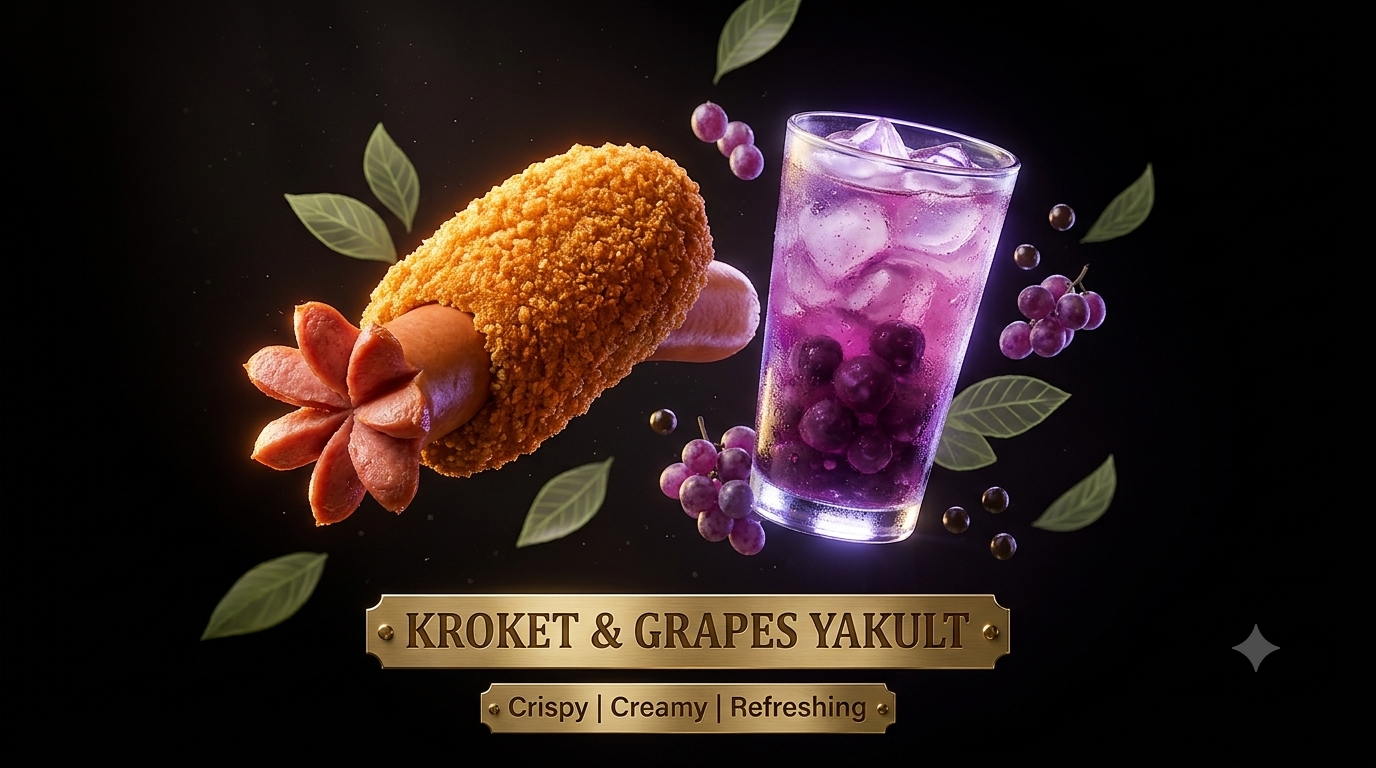
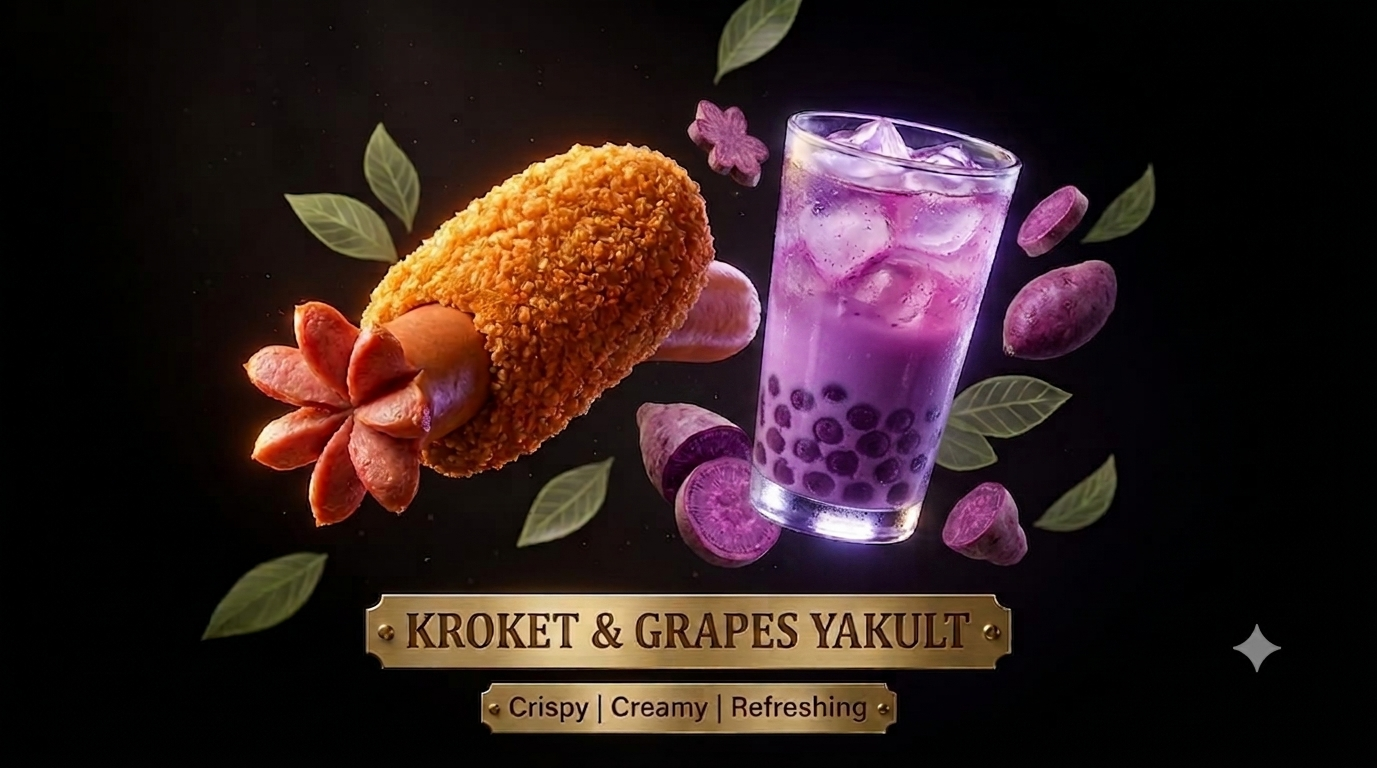
update gambar dan teks

diff --git a/components/AboutUsVoucher.tsx b/components/AboutUsVoucher.tsx
@@ -55,7 +55,7 @@ export default function AboutUsVoucher({ vouchers, onExplore, showNotification }
             </h2>
 
             <p className="text-zinc-400 text-sm leading-relaxed text-justify sm:text-left">
-              <strong>JedaKuliah</strong> didirikan oleh sekelompok mahasiswa tingkat akhir yang bosan mengorbankan waktu istirahat berharga hanya demi mengantre makan siang. Melalui platform kantin terintegrasi, kami mendigitalisasikan jajaran stal kuliner favorit kampus Anda.
+              <strong>Kroket & Grape Yakult</strong> didirikan oleh sekelompok mahasiswa tingkat akhir yang bosan mengorbankan waktu istirahat berharga hanya demi mengantre makan siang. Melalui platform kantin terintegrasi, kami mendigitalisasikan jajaran stal kuliner favorit kampus Anda.
             </p>
             
             <p className="text-zinc-400 text-sm leading-relaxed text-justify sm:text-left">